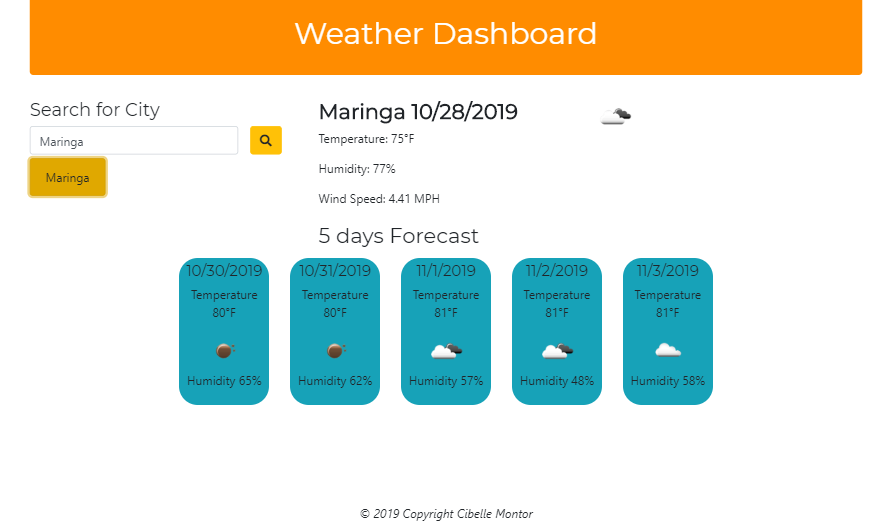
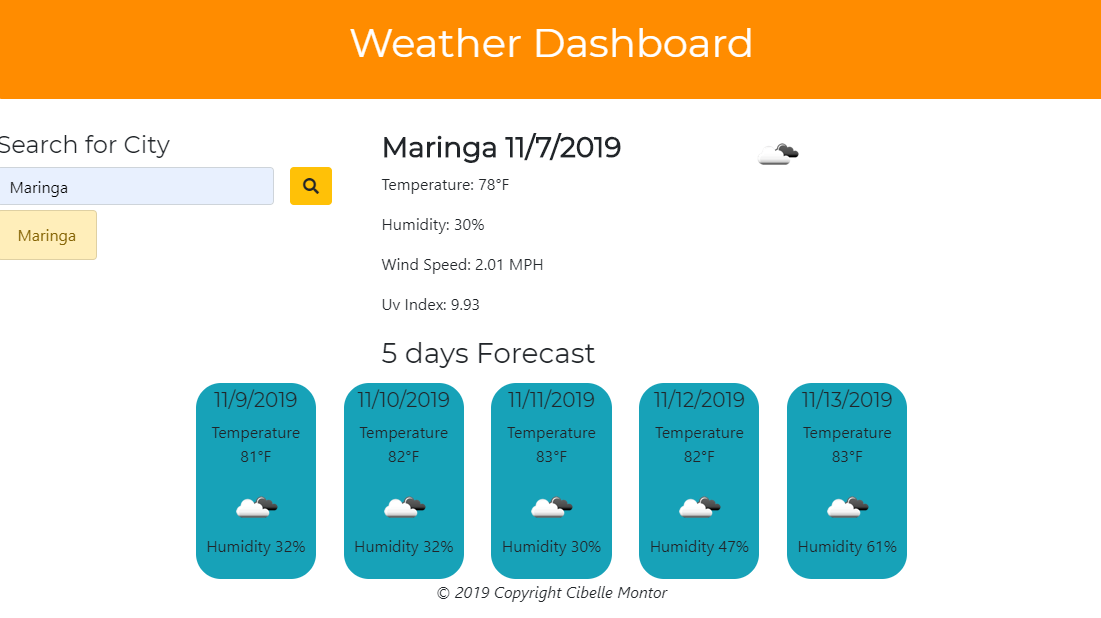
took new screenshot

diff --git a/assets/js/script.js b/assets/js/script.js
@@ -1,13 +1,14 @@
 
 
-
 //setting some global variables
 var city = $("#userCity").val().trim();
 var iconw = $("#wicon");
 var timeNow = moment().format('l');
-var userSearch = localStorage.setItem("city", city);
 
+var bttnSearch = $("#bttnSearch");
+var searchedCity = [];
 
+bttnSearch.on('click', currentConditions);
 
 
 //hides the content when page loads.
@@ -15,11 +16,10 @@ $(".daysForecastheader").hide();
 $(".daysForecast").hide();
 
 
+function currentConditions(e) {
+    e.preventDefault();
 
-
-$("#bttnSearch").on("click", function currentConditions(city) {
-    city.preventDefault();
-
+    //setting the city searched in the localstorage
 
 
     //sets the user's parameter and sets api for the Ajax Call
@@ -31,6 +31,7 @@ $("#bttnSearch").on("click", function currentConditions(city) {
 
 
     }).then(function (response) {
+
 
         //content now it's displayed with the response we got back
         $(".daysForecastheader").show();
@@ -44,8 +45,6 @@ $("#bttnSearch").on("click", function currentConditions(city) {
         var lon = response.coord.lon;
         var lat = response.coord.lat;
 
-        console.log(lon)
-        console.log(lat)
         uvIndex(lat, lon)
 
         //creating  elements and appending the information stored in the variables above
@@ -66,19 +65,28 @@ $("#bttnSearch").on("click", function currentConditions(city) {
 
         $currentConditions.prepend($cityName, $temperature, $humidity, $windSpeed)
         $("#currentConditions").append($currentConditions);
-        localStorage.setItem("city-search", JSON.stringify(city)
-        );
+
+        var recentSearch = $("<button>").text(cityName);
+        recentSearch.addClass("list-group-item list-group-item-warning btn btn-warning");
+        $("#recentSearches").prepend(recentSearch);
 
 
-        return
+        var citiesSearched = JSON.parse(localStorage.getItem("city-search") || [])
+        citiesSearched.push(recentSearch);
+        localStorage.setItem("city-search", JSON.stringify(citiesSearched));
+
+
+
 
     })
 
-    recentSearches(city);
+
+
+    recentSearches();
 
     forecast5Days()
 
-})
+}
 
 
 
@@ -127,24 +135,25 @@ function forecast5Days() {
 }
 
 
-function recentSearches() {
+function recentSearches(cityName) {
 
-    var city = $("#userCity").val().trim();
-    if (!city) {
+    var cityName = $("#userCity").val().trim();
+    if (!cityName) {
         alert("Please enter a city")
         return false;
 
-
     }
-    else {
 
-        var recentSearch = $("<button>").text(city);
-        $("#recentSearches").prepend(recentSearch);
-        recentSearch.addClass("list-group-item list-group-item-warning btn btn-warning");
-    }
+
+
+
+
+
 
 
 }
+
+
 
 
 
@@ -166,9 +175,9 @@ function uvIndex(lat, lon) {
         var $uvIndex = $("<p>").text("Uv Index: " + uvIndex);
         $("#currentConditions").append($uvIndex)
 
-
     })
 }
+
 
 
 
